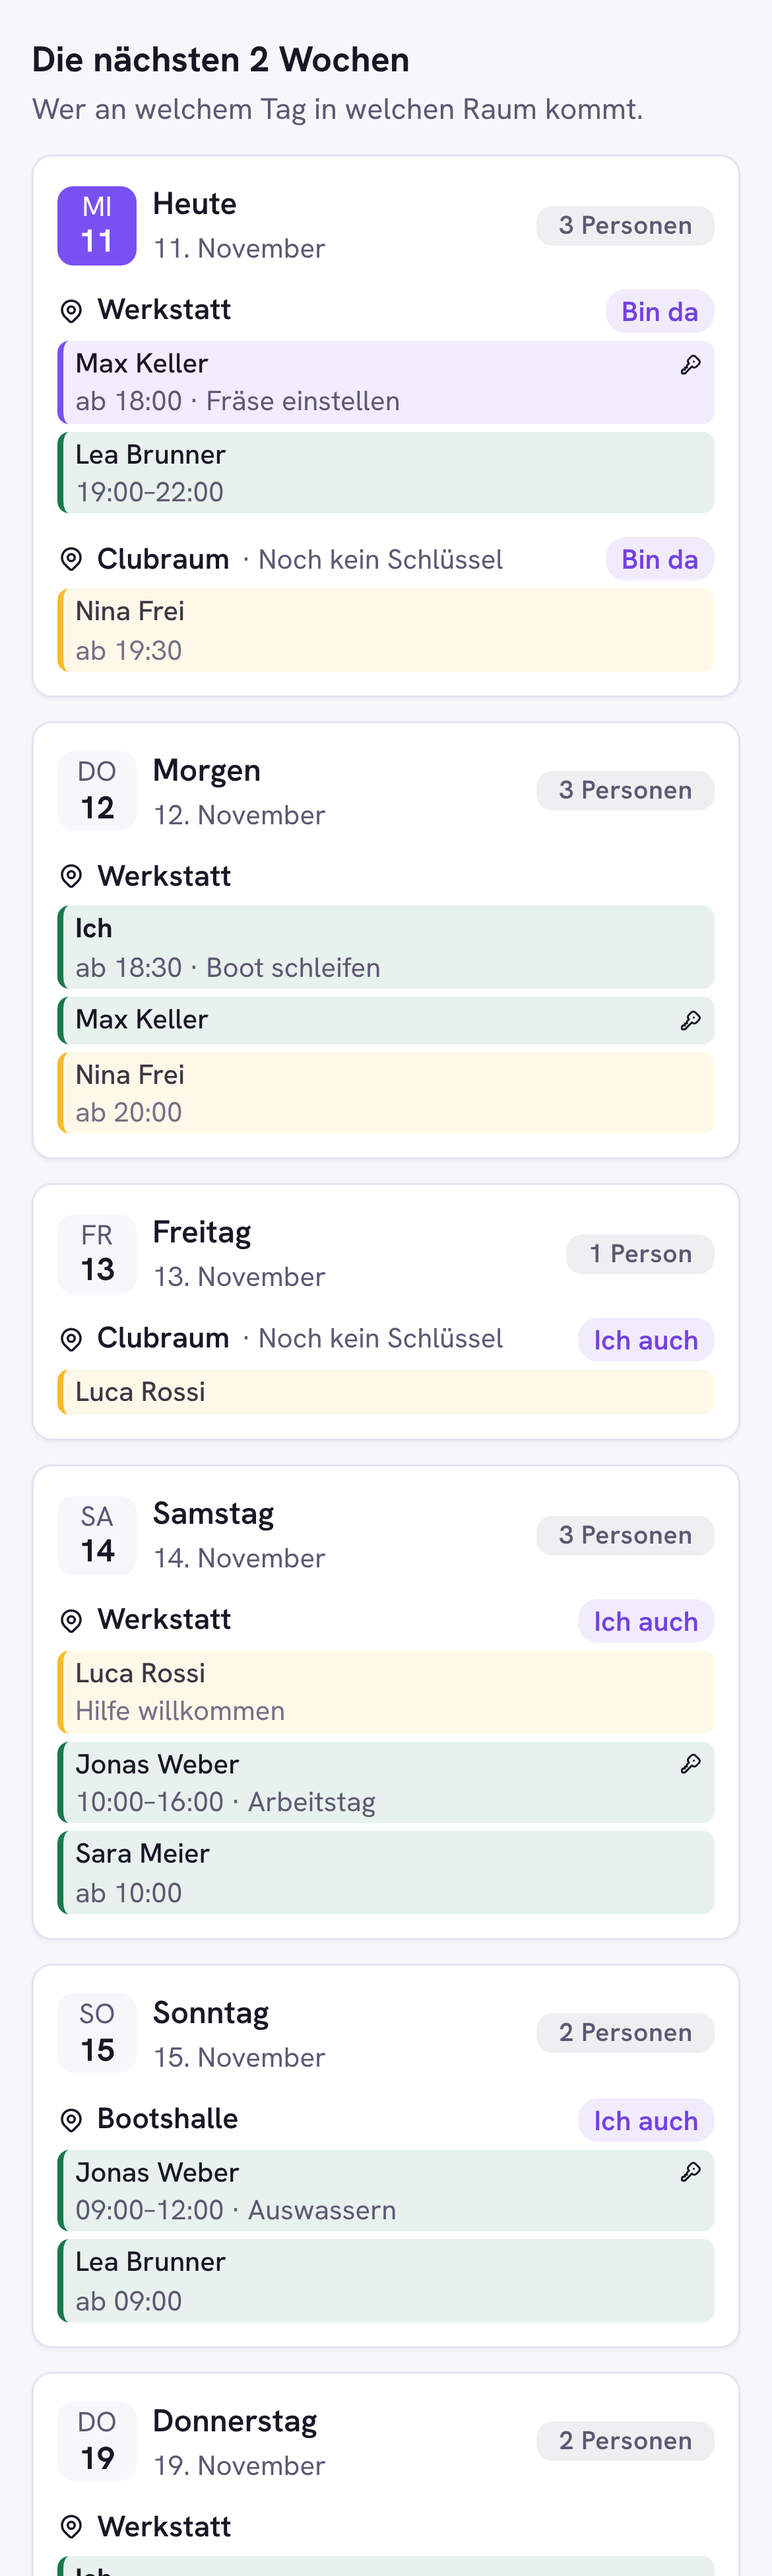
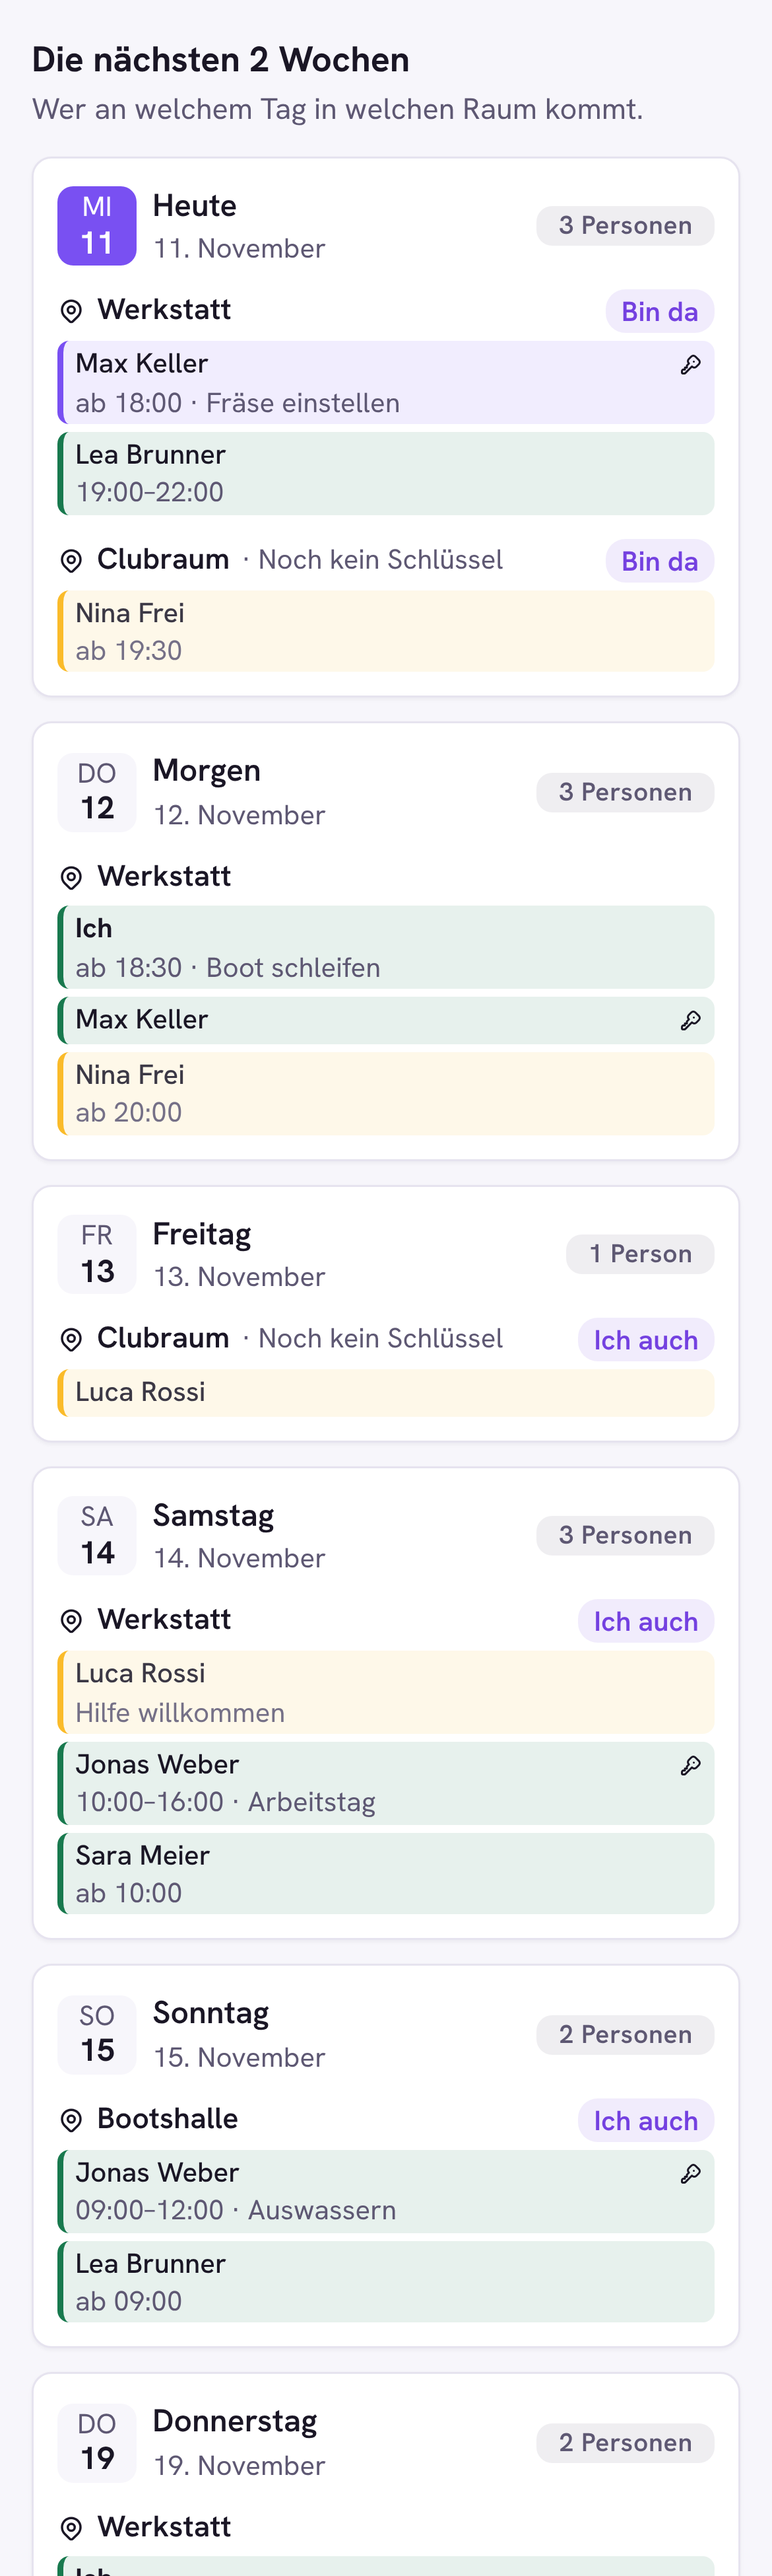
Vor Ort on the phone: one room at a time, picked at the top
Claude-Session: https://claude.ai/code/session_01Mn3pym575w9zaPJzjgd64v

diff --git a/frontend/src/OnsiteTab.tsx b/frontend/src/OnsiteTab.tsx
@@ -10,6 +10,7 @@ import {
   Paper,
   ScrollArea,
   SegmentedControl,
+  Select,
   SimpleGrid,
   Stack,
   Text,
@@ -96,18 +97,17 @@ function CountDot({ s, size = 'sm' }: { s: ReturnType<typeof summary>; size?: 'x
 }
 
 const VIEW_KEY = 'booking.onsiteView'
+const ROOM_KEY = 'booking.onsiteRoom'
 
 /** Vor Ort: who plans to be in which room on which day. A week of days by
- * rooms or a month; on the phone the week or month is an overview and the
- * picked day's rooms show below it. Under the calendar, the next two weeks
- * as a list of days. */
+ * rooms or a month; on the phone one room at a time, picked at the top, with
+ * its week as a list of days or its month. Under the calendar, the next two
+ * weeks of all rooms as a list of days. */
 export function OnsiteTab({ canManage = false }: { canManage?: boolean }) {
   const { t, i18n } = useT()
   const qc = useQueryClient()
   const phone = useMediaQuery('(max-width: 48em)')
   const { run } = useAction()
-  // The picked day: the week or month around it is shown, and on the phone
-  // its rooms are listed under the calendar.
   const [anchor, setAnchor] = useState(() => {
     const asked = new URLSearchParams(window.location.search).get('day')
     return asked ? new Date(`${asked}T12:00`) : new Date()
@@ -132,6 +132,22 @@ export function OnsiteTab({ canManage = false }: { canManage?: boolean }) {
     }
   }
   const month = view === 'month'
+  // The room the phone shows.
+  const [roomId, setRoomId] = useState<number | null>(() => {
+    try {
+      return Number(localStorage.getItem(ROOM_KEY)) || null
+    } catch {
+      return null
+    }
+  })
+  const pickRoom = (id: number) => {
+    setRoomId(id)
+    try {
+      localStorage.setItem(ROOM_KEY, String(id))
+    } catch {
+      /* private mode */
+    }
+  }
 
   const days = useMemo(() => {
     if (month) {
@@ -167,7 +183,8 @@ export function OnsiteTab({ canManage = false }: { canManage?: boolean }) {
       />
     )
 
-  const picked = isoDay(anchor)
+  const room = rooms.find((r) => r.id === roomId) ?? rooms[0]
+  const roomEntries = entries.filter((e) => e.resourceId === room.id)
   const refresh = () => qc.invalidateQueries({ queryKey: ['booking', 'onsite'] })
   const quick = (room: Room, day: string, status: OnsiteStatus) =>
     run(() => setOnsite({ resourceId: room.id, day, status }), t('booking.onsite.saved')).then(
@@ -256,6 +273,9 @@ export function OnsiteTab({ canManage = false }: { canManage?: boolean }) {
 
   return (
     <Stack gap="md">
+      {phone && rooms.length > 1 && (
+        <RoomPicker rooms={rooms} value={room.id} onChange={pickRoom} />
+      )}
       <Group justify="space-between" wrap="wrap" gap="sm">
         <Group gap="sm" wrap="nowrap" style={{ minWidth: 0 }}>
           <Group gap={4} wrap="nowrap">
@@ -303,30 +323,70 @@ export function OnsiteTab({ canManage = false }: { canManage?: boolean }) {
         {legend}
       </Stack>
 
-      {month ? (
+      {phone ? (
+        <Paper withBorder radius="md" style={{ overflow: 'hidden' }}>
+          <Box p="sm" style={{ borderBottom: border }}>
+            {roomHead(room)}
+          </Box>
+          {month ? (
+            <MonthGrid
+              days={days}
+              inMonth={anchor.getMonth()}
+              today={today}
+              compact
+              locale={locale}
+              rooms={[room]}
+              entries={roomEntries}
+              onPick={(d) => {
+                setAnchor(d)
+                pickView('week')
+              }}
+            />
+          ) : (
+            days.map((d, i) => {
+              const day = isoDay(d)
+              return (
+                <Box
+                  key={day}
+                  style={{
+                    display: 'grid',
+                    gridTemplateColumns: '52px minmax(0, 1fr)',
+                    borderTop: i ? border : undefined,
+                    background:
+                      day < today
+                        ? 'var(--mantine-color-default-hover)'
+                        : day === today
+                          ? 'color-mix(in srgb, var(--mantine-color-violet-light) 45%, transparent)'
+                          : undefined,
+                  }}
+                >
+                  <Box ta="center" py={8} style={{ borderRight: border }}>
+                    <Text size="xs" c="dimmed" tt="uppercase">
+                      {d.toLocaleDateString(locale, { weekday: 'short' }).slice(0, 2)}
+                    </Text>
+                    <Text fw={day === today ? 700 : 500} c={day === today ? 'violet' : undefined}>
+                      {d.getDate()}
+                    </Text>
+                  </Box>
+                  <Box p={6}>{cell(room, d)}</Box>
+                </Box>
+              )
+            })
+          )}
+        </Paper>
+      ) : month ? (
         <MonthGrid
           days={days}
           inMonth={anchor.getMonth()}
           today={today}
-          picked={phone ? picked : undefined}
-          compact={!!phone}
+          compact={false}
           locale={locale}
           rooms={rooms}
           entries={entries}
           onPick={(d) => {
             setAnchor(d)
-            if (!phone) pickView('week')
+            pickView('week')
           }}
-        />
-      ) : phone ? (
-        <WeekStrip
-          days={days}
-          picked={picked}
-          today={today}
-          locale={locale}
-          rooms={rooms}
-          entries={entries}
-          onPick={setAnchor}
         />
       ) : (
         <Paper withBorder radius="md" style={{ overflow: 'hidden' }}>
@@ -415,20 +475,6 @@ export function OnsiteTab({ canManage = false }: { canManage?: boolean }) {
         </Paper>
       )}
 
-      {phone && (
-        <Stack gap="sm">
-          <Text fw={600}>
-            {anchor.toLocaleDateString(locale, { weekday: 'long', day: 'numeric', month: 'long' })}
-          </Text>
-          {rooms.map((room) => (
-            <Paper key={room.id} withBorder radius="md" p="sm">
-              {roomHead(room)}
-              <Box mt="xs">{cell(room, anchor)}</Box>
-            </Paper>
-          ))}
-        </Stack>
-      )}
-
       <NextDays
         data={soon.data}
         loading={soon.isLoading}
@@ -437,7 +483,7 @@ export function OnsiteTab({ canManage = false }: { canManage?: boolean }) {
         onQuick={quick}
         onPick={(day) => {
           setAnchor(new Date(`${day}T12:00`))
-          if (!phone) pickView('week')
+          pickView('week')
           window.scrollTo({ top: 0, behavior: 'smooth' })
         }}
       />
@@ -457,124 +503,44 @@ export function OnsiteTab({ canManage = false }: { canManage?: boolean }) {
   )
 }
 
-/** The phone's week: a column per day, a row per room with how many come.
- * Tapping a day lists its rooms below. */
-function WeekStrip({
-  days,
-  picked,
-  today,
-  locale,
+/** The phone's room switch: buttons for a few rooms, a list for more. */
+function RoomPicker({
   rooms,
-  entries,
-  onPick,
+  value,
+  onChange,
 }: {
-  days: Date[]
-  picked: string
-  today: string
-  locale: string
   rooms: Room[]
-  entries: OnsiteEntry[]
-  onPick: (d: Date) => void
+  value: number
+  onChange: (id: number) => void
 }) {
-  const border = '1px solid var(--mantine-color-default-border)'
-  const col = (day: string) => ({
-    background:
-      day === picked
-        ? 'var(--mantine-color-violet-light)'
-        : day < today
-          ? 'var(--mantine-color-default-hover)'
-          : undefined,
-  })
-  return (
-    <Paper withBorder radius="md" style={{ overflow: 'hidden' }}>
-      <Box style={{ display: 'grid', gridTemplateColumns: 'repeat(7, minmax(0, 1fr))' }}>
-        {days.map((d) => {
-          const day = isoDay(d)
-          return (
-            <UnstyledButton
-              key={day}
-              onClick={() => onPick(d)}
-              aria-pressed={day === picked}
-              aria-label={d.toLocaleDateString(locale, {
-                weekday: 'long',
-                day: 'numeric',
-                month: 'long',
-              })}
-              py={6}
-              ta="center"
-              style={{ ...col(day), borderBottom: border }}
-            >
-              <Text size="xs" c="dimmed" tt="uppercase">
-                {d.toLocaleDateString(locale, { weekday: 'short' }).slice(0, 2)}
-              </Text>
-              <Text
-                fw={day === today || day === picked ? 700 : 500}
-                c={day === today ? 'violet' : undefined}
-              >
-                {d.getDate()}
-              </Text>
-            </UnstyledButton>
-          )
-        })}
-        {rooms.map((room, i) => (
-          <Box key={room.id} style={{ display: 'contents' }}>
-            <Text
-              size="xs"
-              fw={600}
-              c="dimmed"
-              px={8}
-              pt={6}
-              truncate
-              style={{ gridColumn: '1 / -1', borderTop: i ? border : undefined }}
-            >
-              {room.name}
-            </Text>
-            {days.map((d) => {
-              const day = isoDay(d)
-              const s = summary(entries, day, room.id)
-              return (
-                <UnstyledButton
-                  key={day}
-                  onClick={() => onPick(d)}
-                  tabIndex={-1}
-                  aria-hidden
-                  h={34}
-                  style={{
-                    ...col(day),
-                    display: 'flex',
-                    alignItems: 'center',
-                    justifyContent: 'center',
-                    gap: 2,
-                  }}
-                >
-                  {s.count ? (
-                    <>
-                      <CountDot s={s} />
-                      {s.key && <IconKey size={11} />}
-                    </>
-                  ) : (
-                    <Text size="xs" c="dimmed">
-                      ·
-                    </Text>
-                  )}
-                </UnstyledButton>
-              )
-            })}
-          </Box>
-        ))}
-      </Box>
-    </Paper>
+  const { t } = useT()
+  const data = rooms.map((r) => ({ value: String(r.id), label: r.name }))
+  return rooms.length <= 3 ? (
+    <SegmentedControl
+      fullWidth
+      aria-label={t('booking.onsite.room')}
+      value={String(value)}
+      onChange={(v) => onChange(Number(v))}
+      data={data}
+    />
+  ) : (
+    <Select
+      aria-label={t('booking.onsite.room')}
+      leftSection={<IconMapPin size={16} />}
+      allowDeselect={false}
+      value={String(value)}
+      onChange={(v) => v && onChange(Number(v))}
+      data={data}
+    />
   )
 }
 
-/** A month: per day and room how many are coming, and the key. On a wide
- * screen a day opens its week; on the phone (compact) a day shows the total
- * and is picked. */
+/** A month: per day and room how many are coming, and the key (compact: the
+ * total only, for the phone's one room). A day opens its week. */
 function MonthGrid({
   days,
   inMonth,
   today,
-  picked,
   compact,
   locale,
   rooms,
@@ -584,7 +550,6 @@ function MonthGrid({
   days: Date[]
   inMonth: number
   today: string
-  picked?: string
   compact: boolean
   locale: string
   rooms: Room[]
@@ -594,7 +559,7 @@ function MonthGrid({
   const { t } = useT()
   const border = '1px solid var(--mantine-color-default-border)'
   return (
-    <Paper withBorder radius="md" style={{ overflow: 'hidden' }}>
+    <Paper withBorder={!compact} radius={compact ? 0 : 'md'} style={{ overflow: 'hidden' }}>
       <Box style={{ display: 'grid', gridTemplateColumns: 'repeat(7, minmax(0, 1fr))' }}>
         {days.slice(0, 7).map((d) => (
           <Text
@@ -616,7 +581,6 @@ function MonthGrid({
             <UnstyledButton
               key={day}
               onClick={() => onPick(d)}
-              aria-pressed={picked ? day === picked : undefined}
               aria-label={d.toLocaleDateString(locale, {
                 weekday: 'long',
                 day: 'numeric',
@@ -627,12 +591,7 @@ function MonthGrid({
                 minHeight: compact ? 54 : 76,
                 borderLeft: i % 7 ? border : undefined,
                 borderTop: i >= 7 ? border : undefined,
-                background:
-                  day === picked
-                    ? 'var(--mantine-color-violet-light)'
-                    : day < today
-                      ? 'var(--mantine-color-default-hover)'
-                      : undefined,
+                background: day < today ? 'var(--mantine-color-default-hover)' : undefined,
                 opacity: d.getMonth() === inMonth ? 1 : 0.45,
                 outline:
                   !compact && all.mine ? '2px solid var(--mantine-color-violet-filled)' : undefined,

diff --git a/CHANGELOG.md b/CHANGELOG.md
@@ -2,9 +2,10 @@
 
 ## Unreleased
 
-- **Vor Ort** on the phone shows the whole week or month (not only one day):
-  a compact grid with how many come to each room per day and who brings the
-  key; tap a day to see its rooms and sign up below. On a wide screen the
+- **Vor Ort** on the phone shows the whole week or month (not only one day),
+  one room at a time: pick the room at the top. The week lists its seven
+  days with who comes; the month shows how many come and the key, and a day
+  opens its week. On a wide screen the
   week shows today's column and how many come each day, and the room column
   stays in view when scrolling sideways.
 - **Vor Ort** lists the next 2 weeks under the calendar: a card per day with
